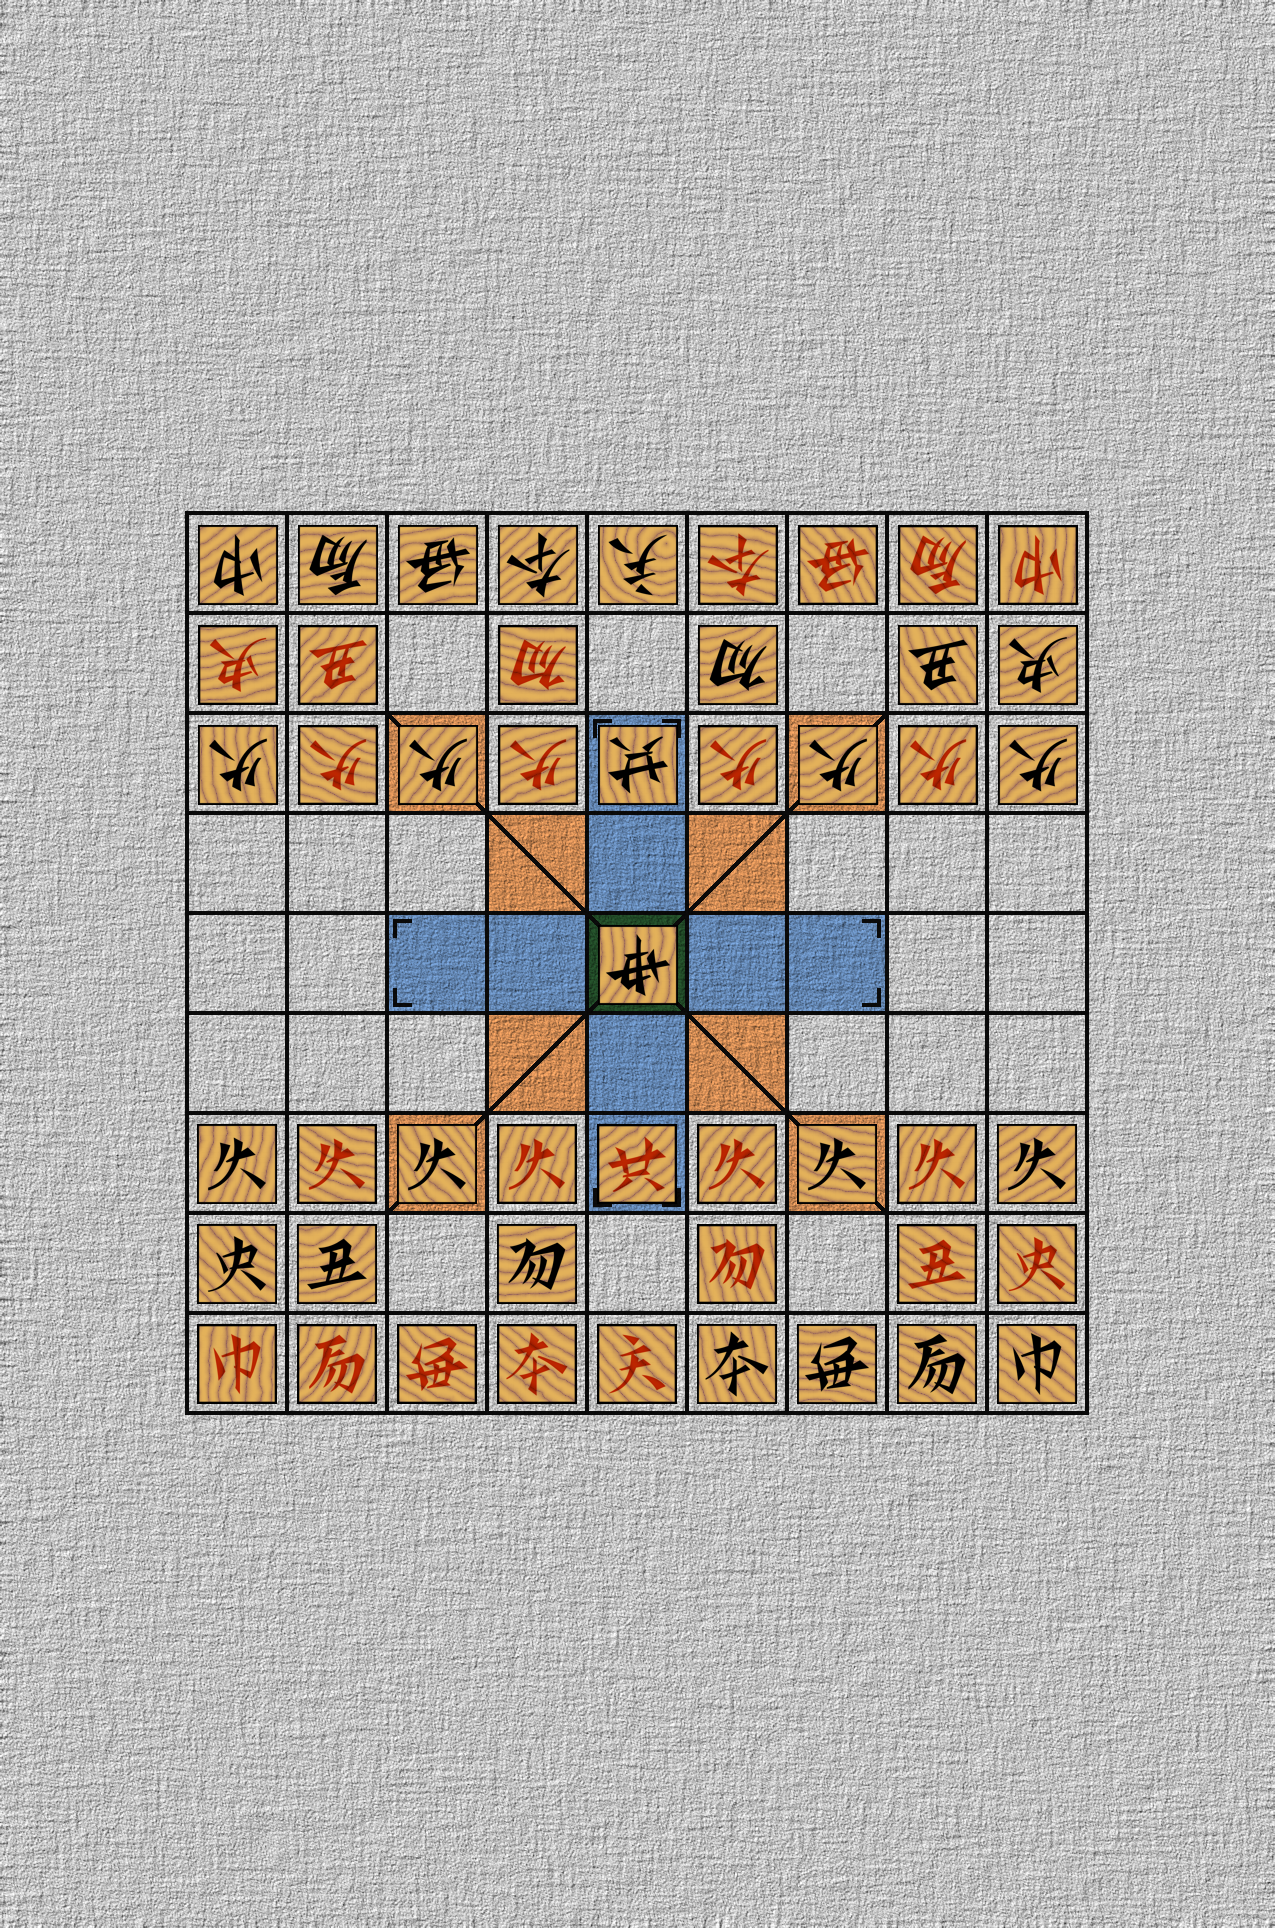
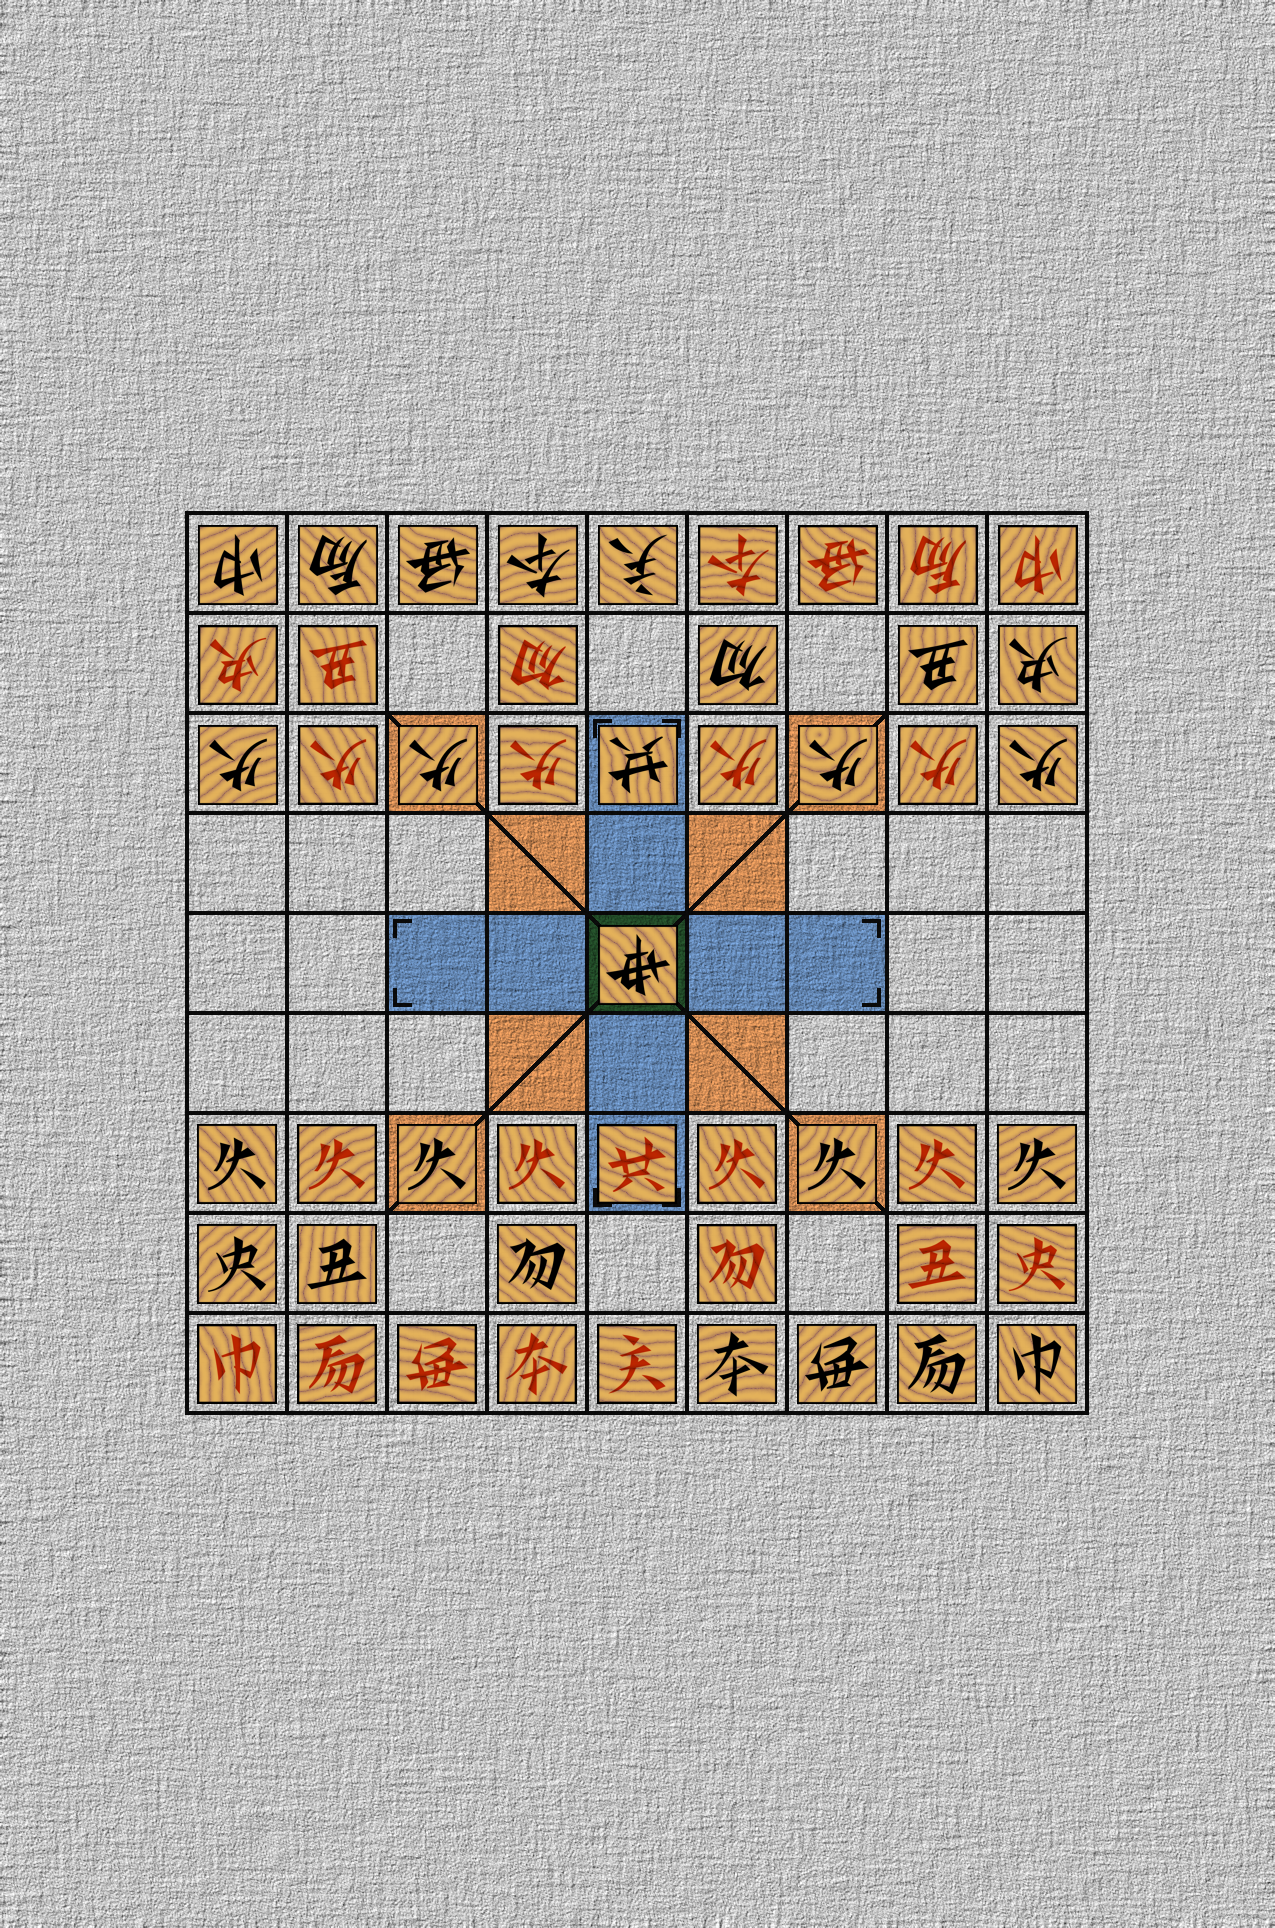
Implement to_opponent_hop1zuo1

Changed region(s): [[0.1529, 0.249, 0.8565, 0.4357], [0.1529, 0.5913, 0.8565, 0.7469], [0.4588, 0.4668, 0.52, 0.529]]

diff --git a/src/field/mod.rs b/src/field/mod.rs
@@ -45,7 +45,7 @@ pub enum Side {
     IASide,
 }
 
-struct PhysicalPiece {
+struct PhysicalNonTam2Piece {
     color: Color,
     profession: Profession,
     image: image::RgbImage,
@@ -56,7 +56,7 @@ struct PhysicalTam {
 }
 
 pub enum Piece {
-    NonTam2(PhysicalPiece, Side),
+    NonTam2(PhysicalNonTam2Piece, Side),
     Tam2(PhysicalTam),
 }
 
@@ -72,6 +72,13 @@ impl Piece {
         match self {
             Piece::NonTam2(_, s) => *s,
             Piece::Tam2(_) => Side::IASide,
+        }
+    }
+
+    fn into_nontam2piece(self) -> Option<(PhysicalNonTam2Piece, Side)> {
+        match self {
+            Piece::NonTam2(p, s) => Some((p, s)),
+            Piece::Tam2(_) => None
         }
     }
 }
@@ -133,8 +140,8 @@ use std::collections::HashMap;
 
 pub struct Field {
     field: HashMap<Coord, Piece>,
-    a_side_hand: Vec<PhysicalPiece>,
-    ia_side_hand: Vec<PhysicalPiece>,
+    a_side_hand: Vec<PhysicalNonTam2Piece>,
+    ia_side_hand: Vec<PhysicalNonTam2Piece>,
     background: image::RgbImage,
     piece_dimension: u32,
     square_dimension: u32,
@@ -157,7 +164,25 @@ fn load_from_80x80(data: &'static [u8], dimension: u32) -> image::RgbImage {
     }
 }
 
+#[derive(Debug)]
+pub enum OperationError {
+    EmptyToHop1Zuo1,
+    Tam2ToHop1Zuo1,
+}
+
 impl Field {
+    pub fn to_opponent_hop1zuo1(&mut self, coord: Coord) -> Result<(), OperationError> {
+        let (piece, side) = self.field.remove(&coord).ok_or(OperationError::EmptyToHop1Zuo1)?
+            .into_nontam2piece().ok_or(OperationError::Tam2ToHop1Zuo1)?;
+
+        if side == Side::ASide {
+            self.ia_side_hand.push(piece);
+        } else {
+            self.a_side_hand.push(piece);
+        }
+        Ok(())
+    }
+
     pub fn render(&self, down_side: Side) -> image::RgbImage {
         use crate::image::GenericImage;
         let mut background = if down_side == Side::IASide {
@@ -166,6 +191,91 @@ impl Field {
             image::imageops::rotate180(&self.background)
         };
         let (width, height) = background.dimensions();
+
+        {
+            let mut i = 0;
+            for p in &self.a_side_hand {
+
+                let vert_offset = (6 + (i / 9)) * (match down_side {
+                    Side::IASide => -1,
+                    Side::ASide => 1,
+                });
+
+                let horiz_offset = (i % 9 - 4) * (match down_side {
+                    Side::IASide => -1,
+                    Side::ASide => 1,
+                });
+
+                let mut sub_image = background.sub_image(
+                    ((width / 2 - self.piece_dimension / 2) as i32
+                        + self.square_dimension as i32 * horiz_offset) as u32,
+                    ((height / 2 - self.piece_dimension / 2) as i32
+                        + self.square_dimension as i32 * vert_offset) as u32,
+                    self.piece_dimension,
+                    self.piece_dimension,
+                );
+    
+                for (x, y, pixel) in p.image.enumerate_pixels() {
+                    sub_image.put_pixel(
+                        if down_side == Side::ASide {
+                            x
+                        } else {
+                            self.piece_dimension - x
+                        },
+                        if down_side == Side::ASide {
+                            y
+                        } else {
+                            self.piece_dimension - y
+                        },
+                        *pixel,
+                    );
+                }
+
+                i+=1;
+            }
+        }
+        {
+            let mut i = 0;
+            for p in &self.ia_side_hand {
+
+                let vert_offset = (6 + (i / 9)) * (match down_side {
+                    Side::IASide => 1,
+                    Side::ASide => -1,
+                });
+
+                let horiz_offset = (i % 9 - 4) * (match down_side {
+                    Side::IASide => 1,
+                    Side::ASide => -1,
+                });
+
+                let mut sub_image = background.sub_image(
+                    ((width / 2 - self.piece_dimension / 2) as i32
+                        + self.square_dimension as i32 * horiz_offset) as u32,
+                    ((height / 2 - self.piece_dimension / 2) as i32
+                        + self.square_dimension as i32 * vert_offset) as u32,
+                    self.piece_dimension,
+                    self.piece_dimension,
+                );
+    
+                for (x, y, pixel) in p.image.enumerate_pixels() {
+                    sub_image.put_pixel(
+                        if down_side == Side::IASide {
+                            x
+                        } else {
+                            self.piece_dimension - x
+                        },
+                        if down_side == Side::IASide {
+                            y
+                        } else {
+                            self.piece_dimension - y
+                        },
+                        *pixel,
+                    );
+                }
+
+                i+=1;
+            }
+        }
 
         for (row, col) in self.field.keys() {
             let horiz_offset = (match col {
@@ -332,7 +442,7 @@ impl Field {
             hashmap.insert(
                 (row, col),
                 Piece::NonTam2(
-                    PhysicalPiece {
+                    PhysicalNonTam2Piece {
                         color,
                         profession,
                         image: res,

diff --git a/src/main.rs b/src/main.rs
@@ -3,9 +3,16 @@ extern crate image;
 mod field;
 
 fn main() -> Result<(), rand_distr::NormalError> {
-    let field = field::Field::new();
+    use field::Column;
+    use field::Row;
+    let mut field = field::Field::new();
     field.render(field::Side::IASide).save("a.png").unwrap();
     field.render(field::Side::ASide).save("b.png").unwrap();
+
+    field.to_opponent_hop1zuo1((Row::A, Column::K)).unwrap();
+
+    field.render(field::Side::IASide).save("a2.png").unwrap();
+    field.render(field::Side::ASide).save("b2.png").unwrap();
 
     Ok(())
 }
